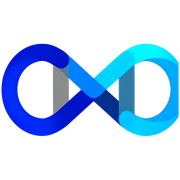
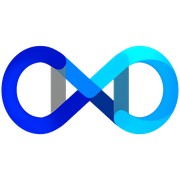
Corrige simbolo recortado; menu solo Inicio/Corporativo, Tarifas redirige a Residencial, oculta Cobertura

diff --git a/Tarifas.html b/Tarifas.html
@@ -3,10 +3,10 @@
 <head>
 <meta charset="utf-8">
 <title>CMC Service Network</title>
-<meta http-equiv="refresh" content="0; url=/tarifas.php">
-<link rel="canonical" href="https://cmcnetwork.mx/tarifas.php">
+<meta http-equiv="refresh" content="0; url=/residencial.php">
+<link rel="canonical" href="https://cmcnetwork.mx/residencial.php">
 <meta name="robots" content="noindex">
-<script>location.replace("/tarifas.php" + location.hash);</script>
+<script>location.replace("/residencial.php" + location.hash);</script>
 </head>
-<body><p>Esta página se movió. <a href="/tarifas.php">Continuar</a>.</p></body>
+<body><p>Esta página se movió. <a href="/residencial.php">Continuar</a>.</p></body>
 </html>

diff --git a/tarifas.php b/tarifas.php
@@ -1,19 +1,3 @@
 <?php
-require __DIR__ . '/includes/bootstrap.php';
-$pagina = 'tarifas';
-$titulo = 'Planes, paquetes y tarifas | CMC Service Network';
-$descripcion = 'Consulta los planes CMC 20, CMC 40 y CMC 90 de Internet y telefonía residencial.';
-require ROOT . '/includes/header.php';
-?>
-
-<header class="hero hero-corto" style="--hero-img:url('/img/slider/bg3.jpg')">
-  <div class="container">
-    <span class="etiqueta" style="color:var(--cmc-cian-brillante)">Tarifas</span>
-    <h1>Planes y <span class="grad">paquetes</span></h1>
-    <p class="lead">Elige el plan que mejor se adapta a tu hogar. Descarga el formato simplificado de cada paquete.</p>
-  </div>
-</header>
-
-<?php require ROOT . '/includes/planes.php'; ?>
-<?php require ROOT . '/includes/form-contacto.php'; ?>
-<?php require ROOT . '/includes/footer.php'; ?>
+// Tarifas se unifico con Residencial.
+header('Location: /residencial.php', true, 301);

diff --git a/includes/header.php b/includes/header.php
@@ -1,5 +1,5 @@
 <?php
-// Variables esperadas: $titulo, $descripcion, $pagina (inicio|corporativo|residencial|tarifas)
+// Variables esperadas: $titulo, $descripcion, $pagina (inicio|corporativo|residencial)
 defined('CMC') || exit;
 require_once __DIR__ . '/datos.php';
 
@@ -10,9 +10,6 @@ $pagina = isset($pagina) ? $pagina : '';
 $menu = [
     'inicio'      => ['/', 'Inicio'],
     'corporativo' => ['/corporativo.php', 'Corporativo'],
-    'residencial' => ['/residencial.php', 'Residencial'],
-    'tarifas'     => ['/tarifas.php', 'Tarifas'],
-    'cobertura'   => ['/Red-CMC/mapadered.html', 'Cobertura'],
 ];
 $wa = 'https://wa.me/' . $CONTACTO['whatsapp'] . '?text=' . rawurlencode($CONTACTO['whatsapp_msg']);
 ?>

diff --git a/index.php b/index.php
@@ -26,12 +26,12 @@ $slides = [
         </div>
         <div class="d-flex flex-wrap gap-3 mt-4">
           <a href="#contacto" class="btn btn-cmc">Solicita una cotización</a>
-          <a href="/tarifas.php" class="btn btn-borde">Ver planes</a>
+          <a href="#servicios" class="btn btn-borde">Ver servicios</a>
         </div>
         <div class="hero-puntos"></div>
       </div>
       <div class="col-lg-5 text-center d-none d-lg-block">
-        <img src="/imagenes/marca/simbolo-cmc.png" alt="" class="hero-simbolo" width="440" height="440">
+        <img src="/imagenes/marca/simbolo-cmc.png?v=2" alt="" class="hero-simbolo" width="440" height="440">
       </div>
     </div>
   </div>

diff --git a/includes/footer.php b/includes/footer.php
@@ -16,8 +16,6 @@ require_once __DIR__ . '/datos.php';
           <li><a href="/corporativo.php#eventos">Internet para eventos</a></li>
           <li><a href="/corporativo.php">Internet corporativo</a></li>
           <li><a href="/residencial.php">Internet residencial</a></li>
-          <li><a href="/tarifas.php">Planes, paquetes y tarifas</a></li>
-          <li><a href="/Red-CMC/mapadered.html">Mapa de cobertura</a></li>
         </ul>
       </div>
       <?php foreach ($LEGALES as $grupo => $docs): ?>

diff --git a/includes/planes.php b/includes/planes.php
@@ -1,5 +1,5 @@
 <?php
-// Seccion de planes residenciales (usada en residencial.php y tarifas.php)
+// Seccion de planes residenciales (usada en residencial.php)
 defined('CMC') || exit;
 ?>
 <section id="planes" class="seccion seccion-clara">
